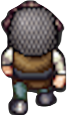
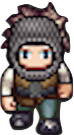
Corrected the tilted axis

diff --git a/apps/my_app.cc b/apps/my_app.cc
@@ -60,29 +60,29 @@ void MyApp::draw() {
 
 void MyApp::keyDown(KeyEvent event) {
   switch (event.getCode()) {
-    case KeyEvent::KEY_UP:
-    case KeyEvent::KEY_w: {
-      //IsUp = true;
-      engine_.SetDirection(Direction::kLeft);
-      prisoner_dir = static_cast<int>(Direction::kLeft);
-      step_up++;
+
+    case KeyEvent::KEY_DOWN:
+    case KeyEvent::KEY_s: {
+      engine_.SetDirection(Direction::kDown);
+      prisoner_dir = static_cast<int>(Direction::kDown);
+      step_down++;
       DrawPrisoner();
       engine_.Step();
       break;
     }
-    case KeyEvent::KEY_DOWN:
-    case KeyEvent::KEY_s: {
-      engine_.SetDirection(Direction::kRight);
-      prisoner_dir = static_cast<int>(Direction::kRight);
-      step_down++;
+    case KeyEvent::KEY_UP:
+    case KeyEvent::KEY_w: {
+      engine_.SetDirection(Direction::kUp);
+      prisoner_dir = static_cast<int>(Direction::kUp);
+      step_up++;
       DrawPrisoner();
       engine_.Step();
       break;
     }
     case KeyEvent::KEY_LEFT:
     case KeyEvent::KEY_a: {
-      engine_.SetDirection(Direction::kUp);
-      prisoner_dir = static_cast<int>(Direction::kUp);
+      engine_.SetDirection(Direction::kLeft);
+      prisoner_dir = static_cast<int>(Direction::kLeft);
       step_left++;
       DrawPrisoner();
       engine_.Step();
@@ -90,8 +90,8 @@ void MyApp::keyDown(KeyEvent event) {
     }
     case KeyEvent::KEY_RIGHT:
     case KeyEvent::KEY_d: {
-      engine_.SetDirection(Direction::kDown);
-      prisoner_dir = static_cast<int>(Direction::kDown);
+      engine_.SetDirection(Direction::kRight);
+      prisoner_dir = static_cast<int>(Direction::kRight);
       step_right++;
       DrawPrisoner();
       engine_.Step();
@@ -104,25 +104,37 @@ void MyApp::DrawPrisoner() {
   cinder::gl::color(1, 1, 0);
   const Location loc = engine_.GetPrisoner().GetLoc();
 
-  if (prisoner_dir == static_cast<int>(Direction::kLeft)) {
-    if (step_up % 2 == 1) {
+  if (prisoner_dir == static_cast<int>(Direction::kDown)) {
+    std::cout<<"Down"<<std::endl;
+    std::cout<<loc.Row()<<std::endl;
+    std::cout<<loc.Col()<<std::endl;
+    if (step_down % 2 == 1) {
       image_path = cinder::fs::path("down_1.png");
     } else {
       image_path = cinder::fs::path("down_2.png");
     }
-  } else if (prisoner_dir == static_cast<int>(Direction::kRight)) {
-    if (step_down % 2 == 1) {
+  } else if (prisoner_dir == static_cast<int>(Direction::kUp)) {
+    std::cout<<"Up"<<std::endl;
+    std::cout<<loc.Row()<<std::endl;
+    std::cout<<loc.Col()<<std::endl;
+    if (step_up % 2 == 1) {
       image_path = cinder::fs::path("up_1.png");
     } else {
       image_path = cinder::fs::path("up_2.png");
     }
-  } else if (prisoner_dir == static_cast<int>(Direction::kUp)) {
+  } else if (prisoner_dir == static_cast<int>(Direction::kLeft)) {
+    std::cout<<"Left"<<std::endl;
+    std::cout<<loc.Row()<<std::endl;
+    std::cout<<loc.Col()<<std::endl;
     if (step_left % 2 == 1) {
       image_path = cinder::fs::path("left_1.png");
     } else {
       image_path = cinder::fs::path("left_2.png");
     }
-  } else if (prisoner_dir == static_cast<int>(Direction::kDown)) {
+  } else if (prisoner_dir == static_cast<int>(Direction::kRight)) {
+    std::cout<<"Right"<<std::endl;
+    std::cout<<loc.Row()<<std::endl;
+    std::cout<<loc.Col()<<std::endl;
     if (step_right % 2 == 1) {
       image_path = cinder::fs::path("right_1.png");
     } else {

diff --git a/src/engine.cc b/src/engine.cc
@@ -10,13 +10,13 @@ namespace mylibrary {
 // Converts a direction into a delta location.
 Location FromDirection(const Direction direction) {
   switch (direction) {
-    case Direction::kUp:
-      return {-1, 0};
-    case Direction::kDown:
-      return {+1, 0};
     case Direction::kLeft:
-      return {0, -1};
+      return {-1, 0};
     case Direction::kRight:
+      return {+1, 0};
+    case Direction::kUp:
+      return {0, -1};
+    case Direction::kDown:
       return {0, +1};
   }
 
